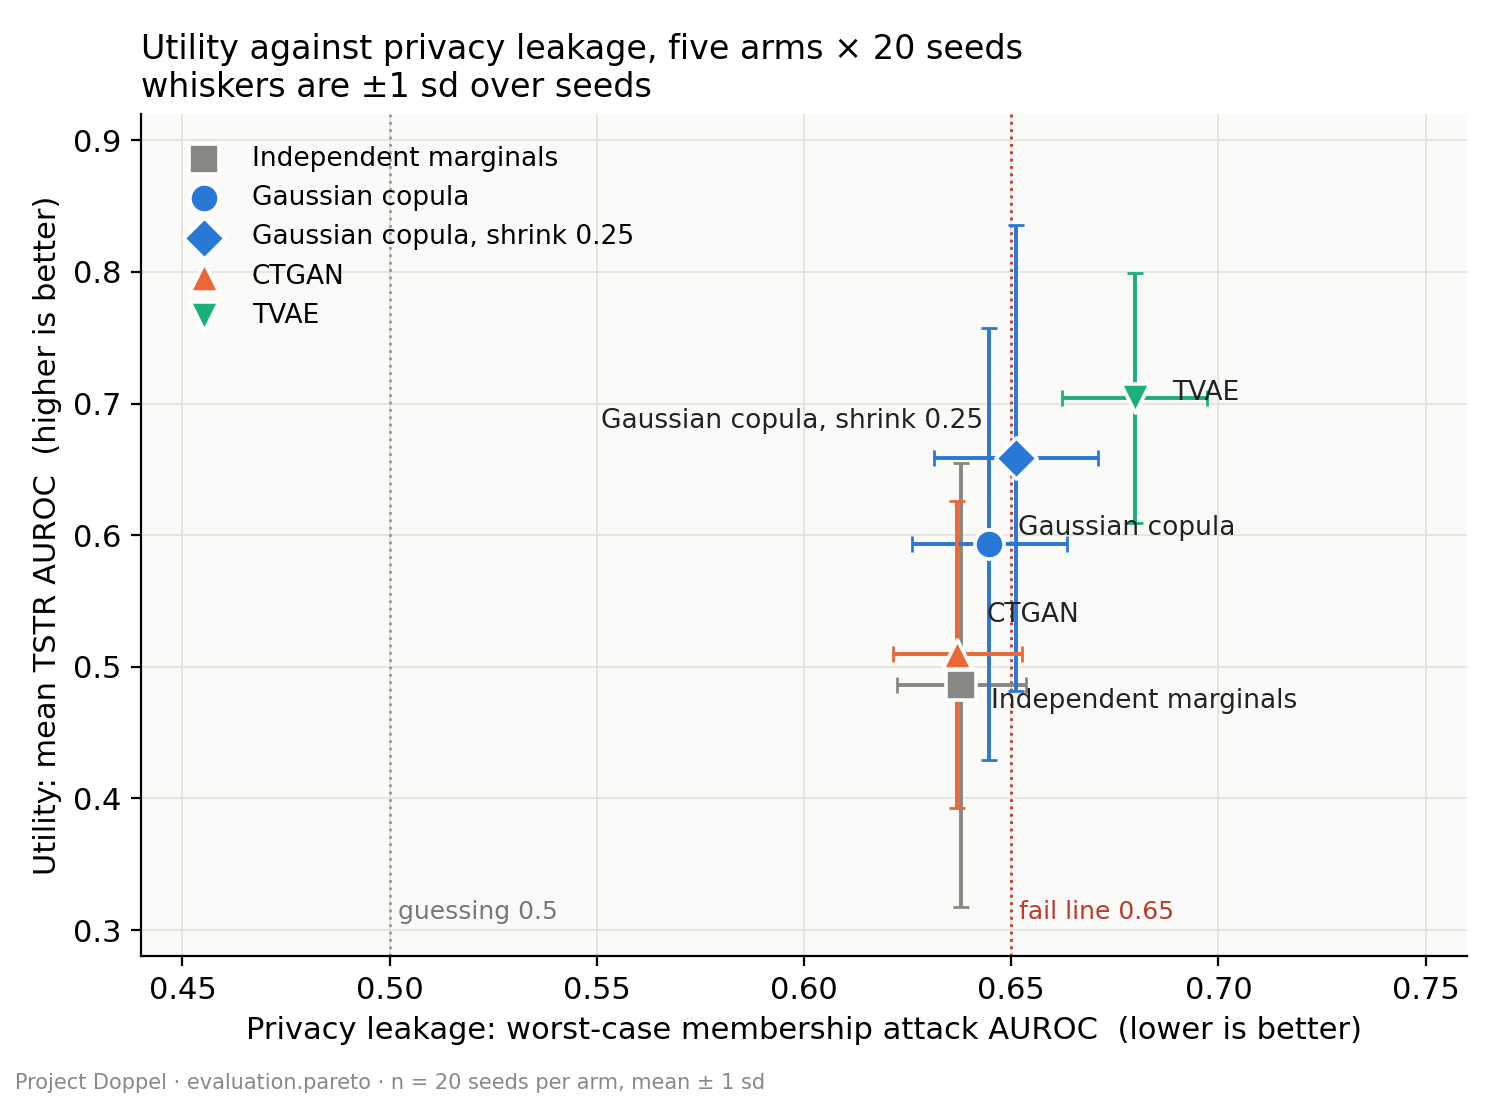
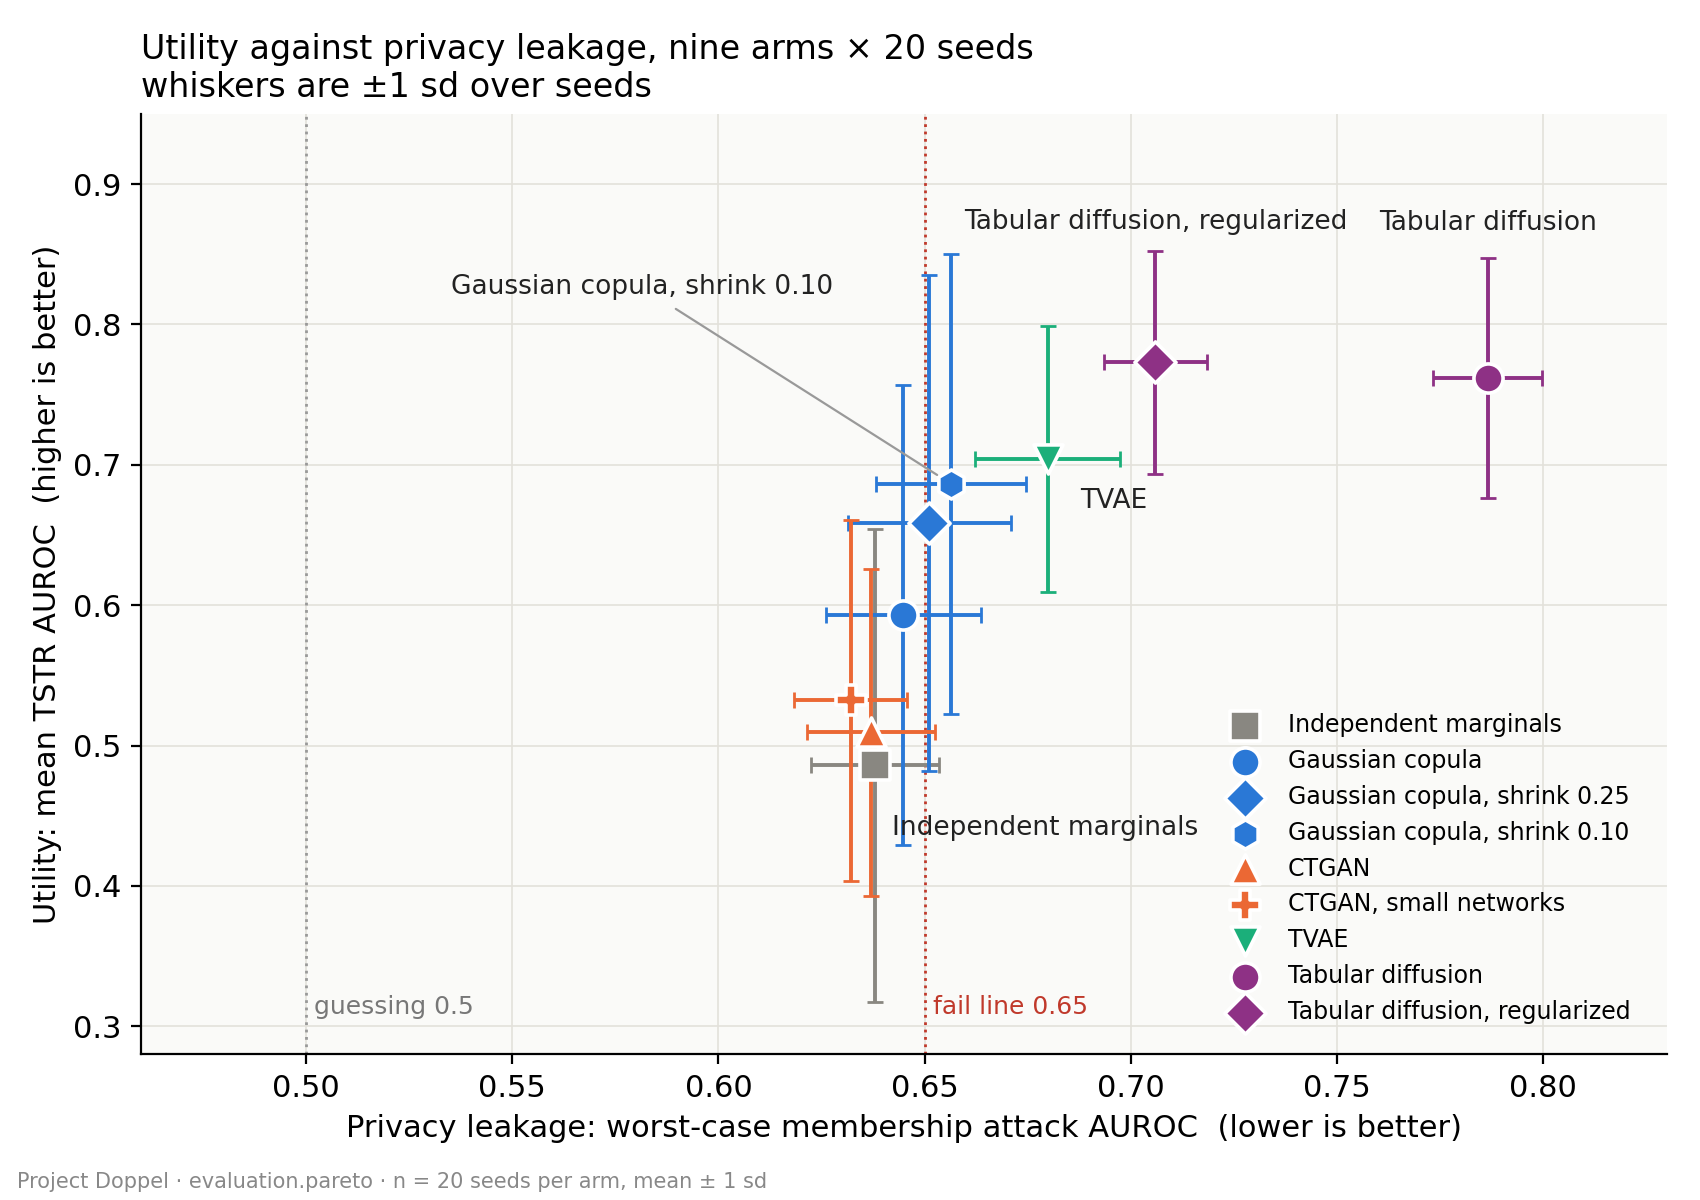
redraw pareto figure for nine arms

diff --git a/evaluation/plot_pareto.py b/evaluation/plot_pareto.py
@@ -19,13 +19,17 @@ from evaluation.pareto import METRICS, load
 # Same palette, shapes and family grouping as the web dashboard (web/src/lib/marks.jsx, web/public/data/dashboard.json),
 # so the static report figure and the interactive one read as one visual language.
 ARMS = [
-    # id, label, color, marker, (label dx, label dy, ha) - offsets picked by hand so the five labels clear
-    # each other and the markers; independent_marginals and ctgan sit almost on top of one another on this axis.
-    ("independent_marginals", "Independent marginals", "#898781", "s", (0.007, -0.012, "left")),
-    ("gaussian_copula", "Gaussian copula", "#2a78d6", "o", (0.007, 0.012, "left")),
-    ("gaussian_copula_shrink025", "Gaussian copula, shrink 0.25", "#2a78d6", "D", (-0.008, 0.028, "right")),
-    ("ctgan", "CTGAN", "#eb6834", "^", (0.007, 0.030, "left")),
-    ("tvae", "TVAE", "#1baf7a", "v", (0.009, 0.004, "left")),
+    # id, label, color, marker, direct label (dx, dy, ha[, leader line]) or None. Six arms sit within 0.03 of each other on the
+    # privacy axis, so only the ones that stand clear are labeled on the plot; the legend names every arm.
+    ("independent_marginals", "Independent marginals", "#898781", "s", (0.004, -0.045, "left")),
+    ("gaussian_copula", "Gaussian copula", "#2a78d6", "o", None),
+    ("gaussian_copula_shrink025", "Gaussian copula, shrink 0.25", "#2a78d6", "D", None),
+    ("gaussian_copula_shrink010", "Gaussian copula, shrink 0.10", "#2a78d6", "h", (-0.075, 0.14, "center", True)),
+    ("ctgan", "CTGAN", "#eb6834", "^", None),
+    ("ctgan_small", "CTGAN, small networks", "#eb6834", "P", None),
+    ("tvae", "TVAE", "#1baf7a", "v", (0.008, -0.03, "left")),
+    ("tabular_diffusion", "Tabular diffusion", "#8e3185", "o", (0.0, 0.11, "center")),
+    ("tabular_diffusion_reg", "Tabular diffusion, regularized", "#8e3185", "D", (0.0, 0.10, "center")),
 ]
 FAIL_LINE = 0.65
 
@@ -43,7 +47,7 @@ def main():
     i_util, i_mia = METRICS.index("utility_tstr"), METRICS.index("mia_worst")
 
     plt.rcParams.update({"font.family": "DejaVu Sans", "font.size": 11})
-    fig, ax = plt.subplots(figsize=(7.5, 5.5), dpi=200)
+    fig, ax = plt.subplots(figsize=(8.5, 6), dpi=200)
     ax.set_facecolor("#fafaf8")
     fig.patch.set_facecolor("white")
 
@@ -52,24 +56,28 @@ def main():
     ax.axvline(0.5, color="#999", linestyle=":", linewidth=1, zorder=1)
     ax.text(0.5 + 0.002, 0.305, "guessing 0.5", color="#777", fontsize=9, va="bottom")
 
-    for arm, label, color, marker, (dx, dy, ha) in ARMS:
+    for arm, label, color, marker, lab in ARMS:
         rows = by_arm[arm]
         util, mia = rows[:, i_util], rows[:, i_mia]
         mx, my = mia.mean(), util.mean()
         sx, sy = mia.std(ddof=1), util.std(ddof=1)
         ax.errorbar(mx, my, xerr=sx, yerr=sy, color=color, elinewidth=1.4, capsize=3, zorder=2, linestyle="none")
         ax.scatter([mx], [my], s=110, color=color, marker=marker, edgecolor="white", linewidth=1.3, zorder=3, label=label)
-        ax.annotate(label, (mx, my), xytext=(mx + dx, my + dy), fontsize=9.5, color="#222", ha=ha, va="center")
+        if lab:
+            dx, dy, ha = lab[:3]
+            leader = dict(arrowstyle="-", color="#999", linewidth=0.8, shrinkB=6) if len(lab) > 3 else None
+            ax.annotate(label, (mx, my), xytext=(mx + dx, my + dy), fontsize=9.5, color="#222", ha=ha, va="center",
+                        arrowprops=leader)
 
     ax.set_xlabel("Privacy leakage: worst-case membership attack AUROC  (lower is better)")
     ax.set_ylabel("Utility: mean TSTR AUROC  (higher is better)")
-    ax.set_title("Utility against privacy leakage, five arms × 20 seeds\nwhiskers are ±1 sd over seeds", fontsize=12, loc="left")
-    ax.set_xlim(0.44, 0.76)
-    ax.set_ylim(0.28, 0.92)
+    ax.set_title("Utility against privacy leakage, nine arms × 20 seeds\nwhiskers are ±1 sd over seeds", fontsize=12, loc="left")
+    ax.set_xlim(0.46, 0.83)
+    ax.set_ylim(0.28, 0.95)
     ax.spines[["top", "right"]].set_visible(False)
     ax.grid(True, color="#e3e1db", linewidth=0.6)
     ax.set_axisbelow(True)
-    ax.legend(loc="upper left", frameon=False, fontsize=9.5, bbox_to_anchor=(0.01, 0.99))
+    ax.legend(loc="lower right", frameon=False, fontsize=8.5, bbox_to_anchor=(0.99, 0.01), ncol=1)
     fig.text(0.01, 0.01, "Project Doppel · evaluation.pareto · n = 20 seeds per arm, mean ± 1 sd", fontsize=7.5, color="#888")
 
     out = Path(args.out)
